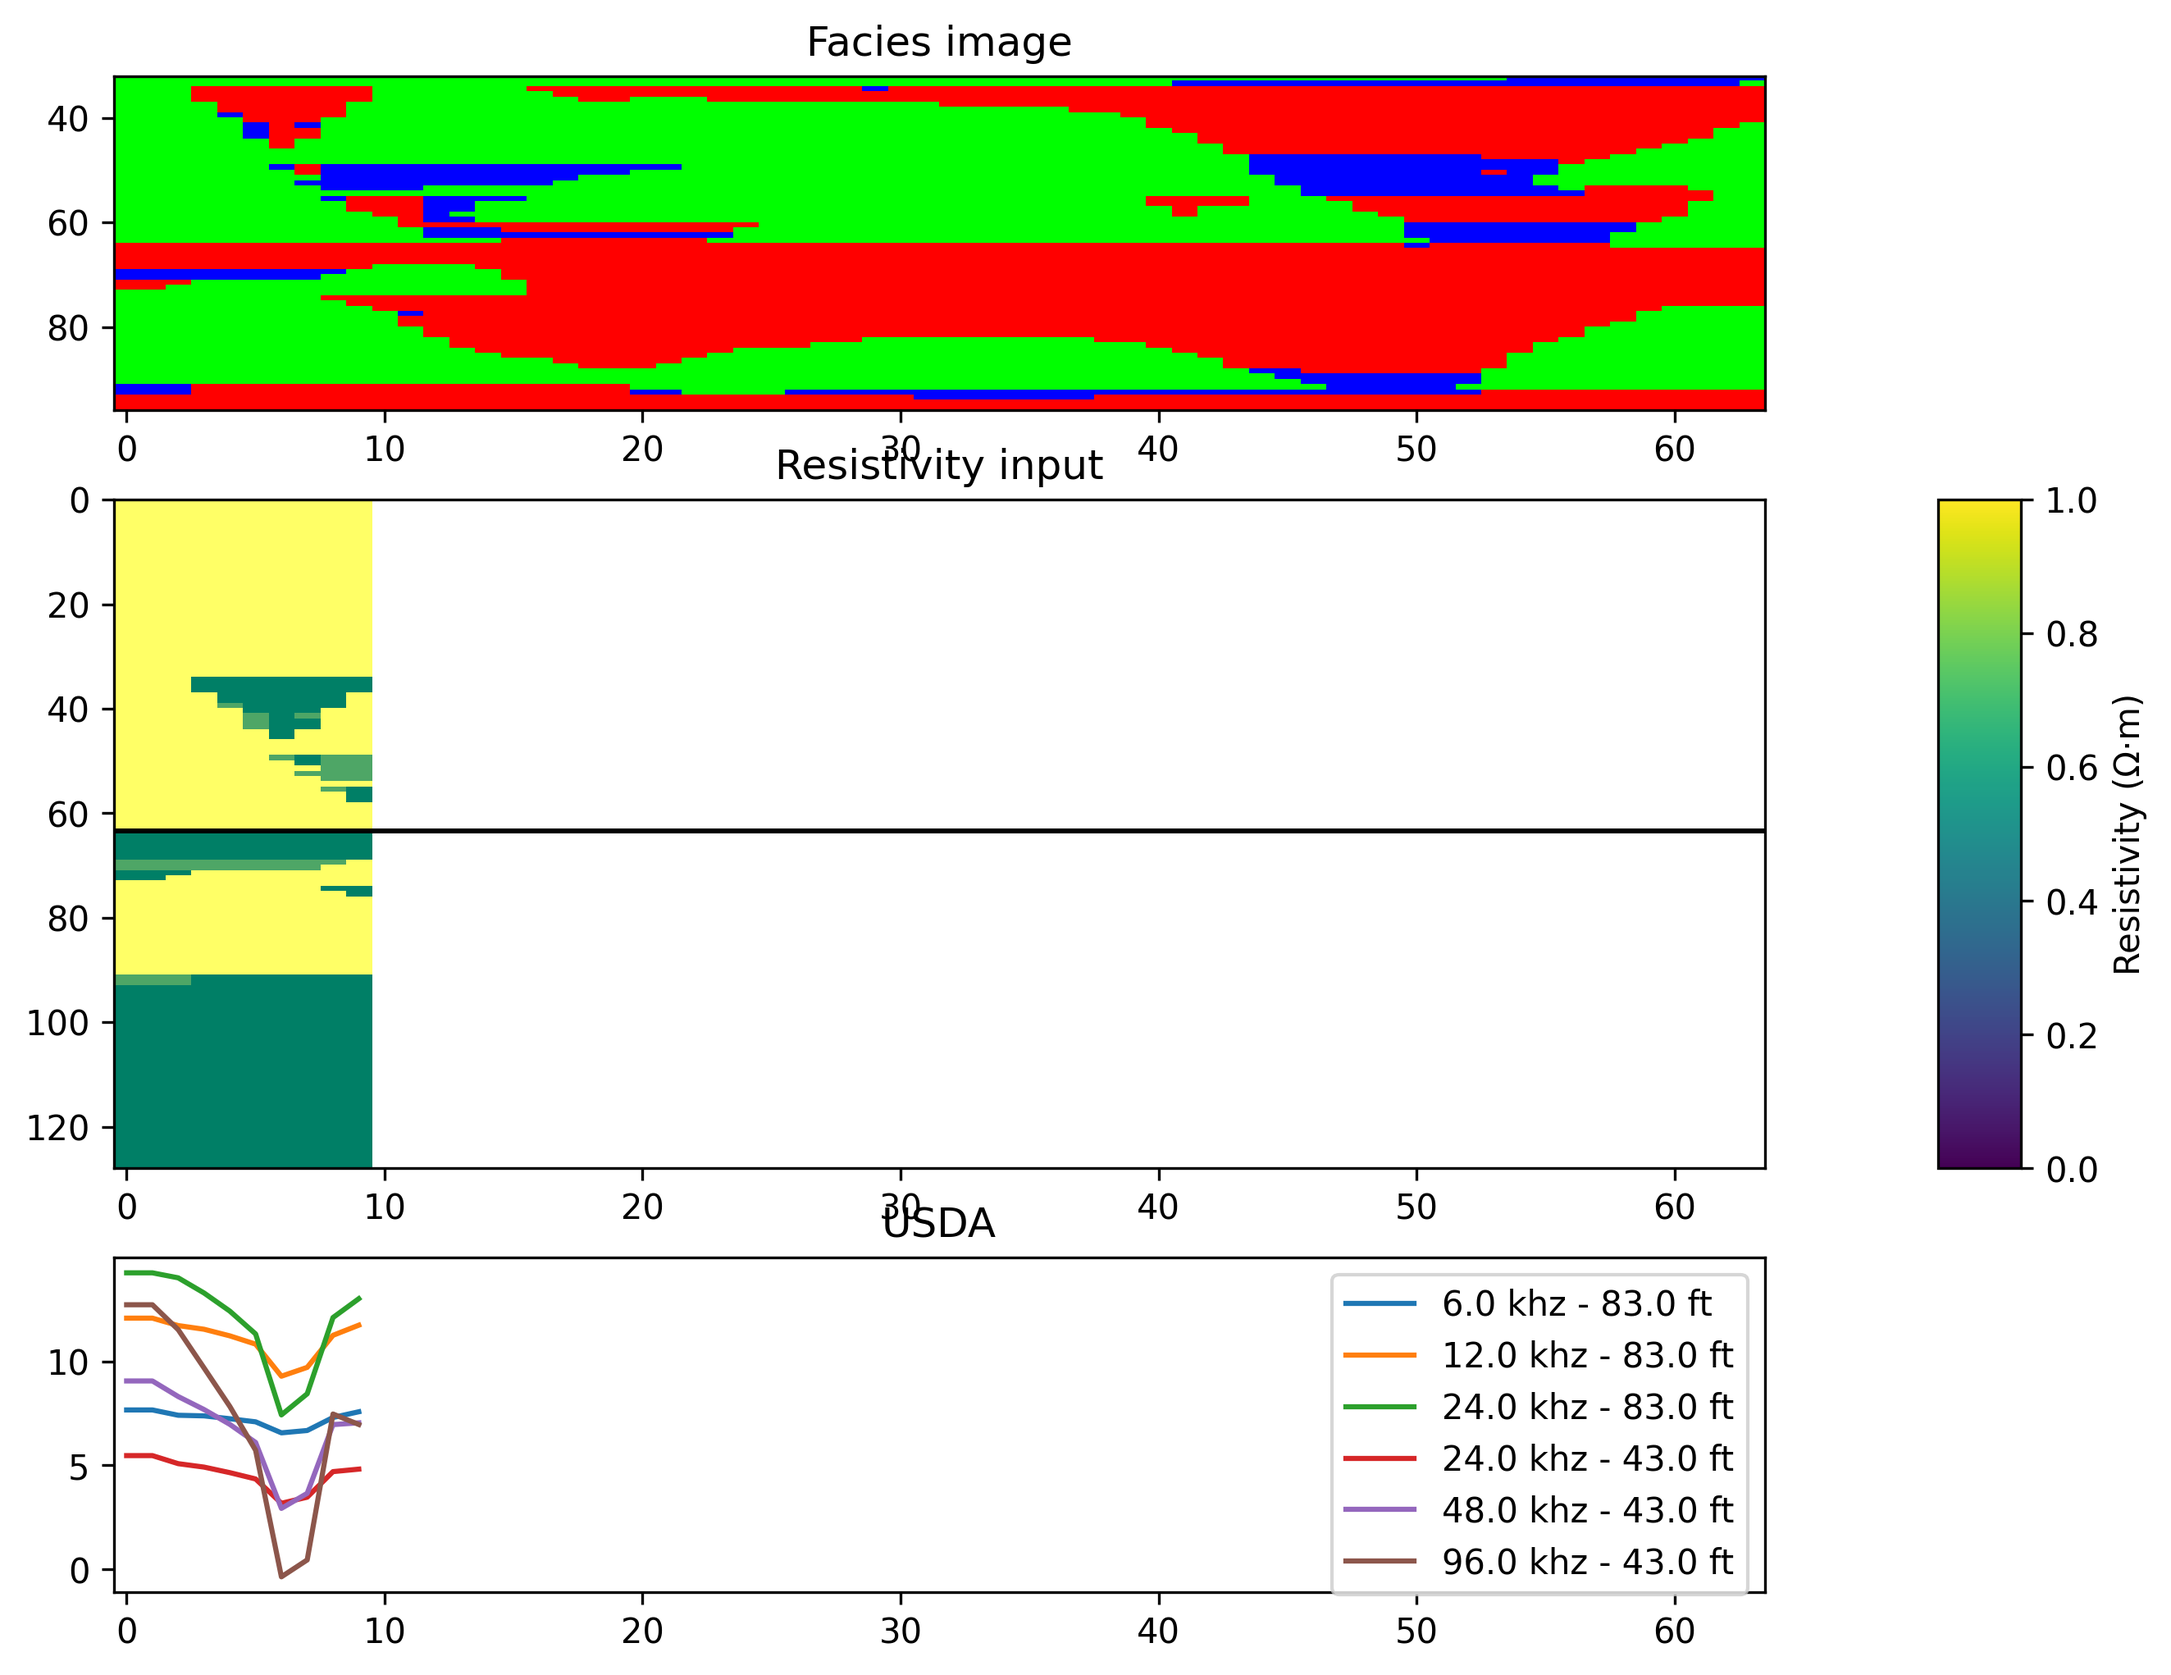
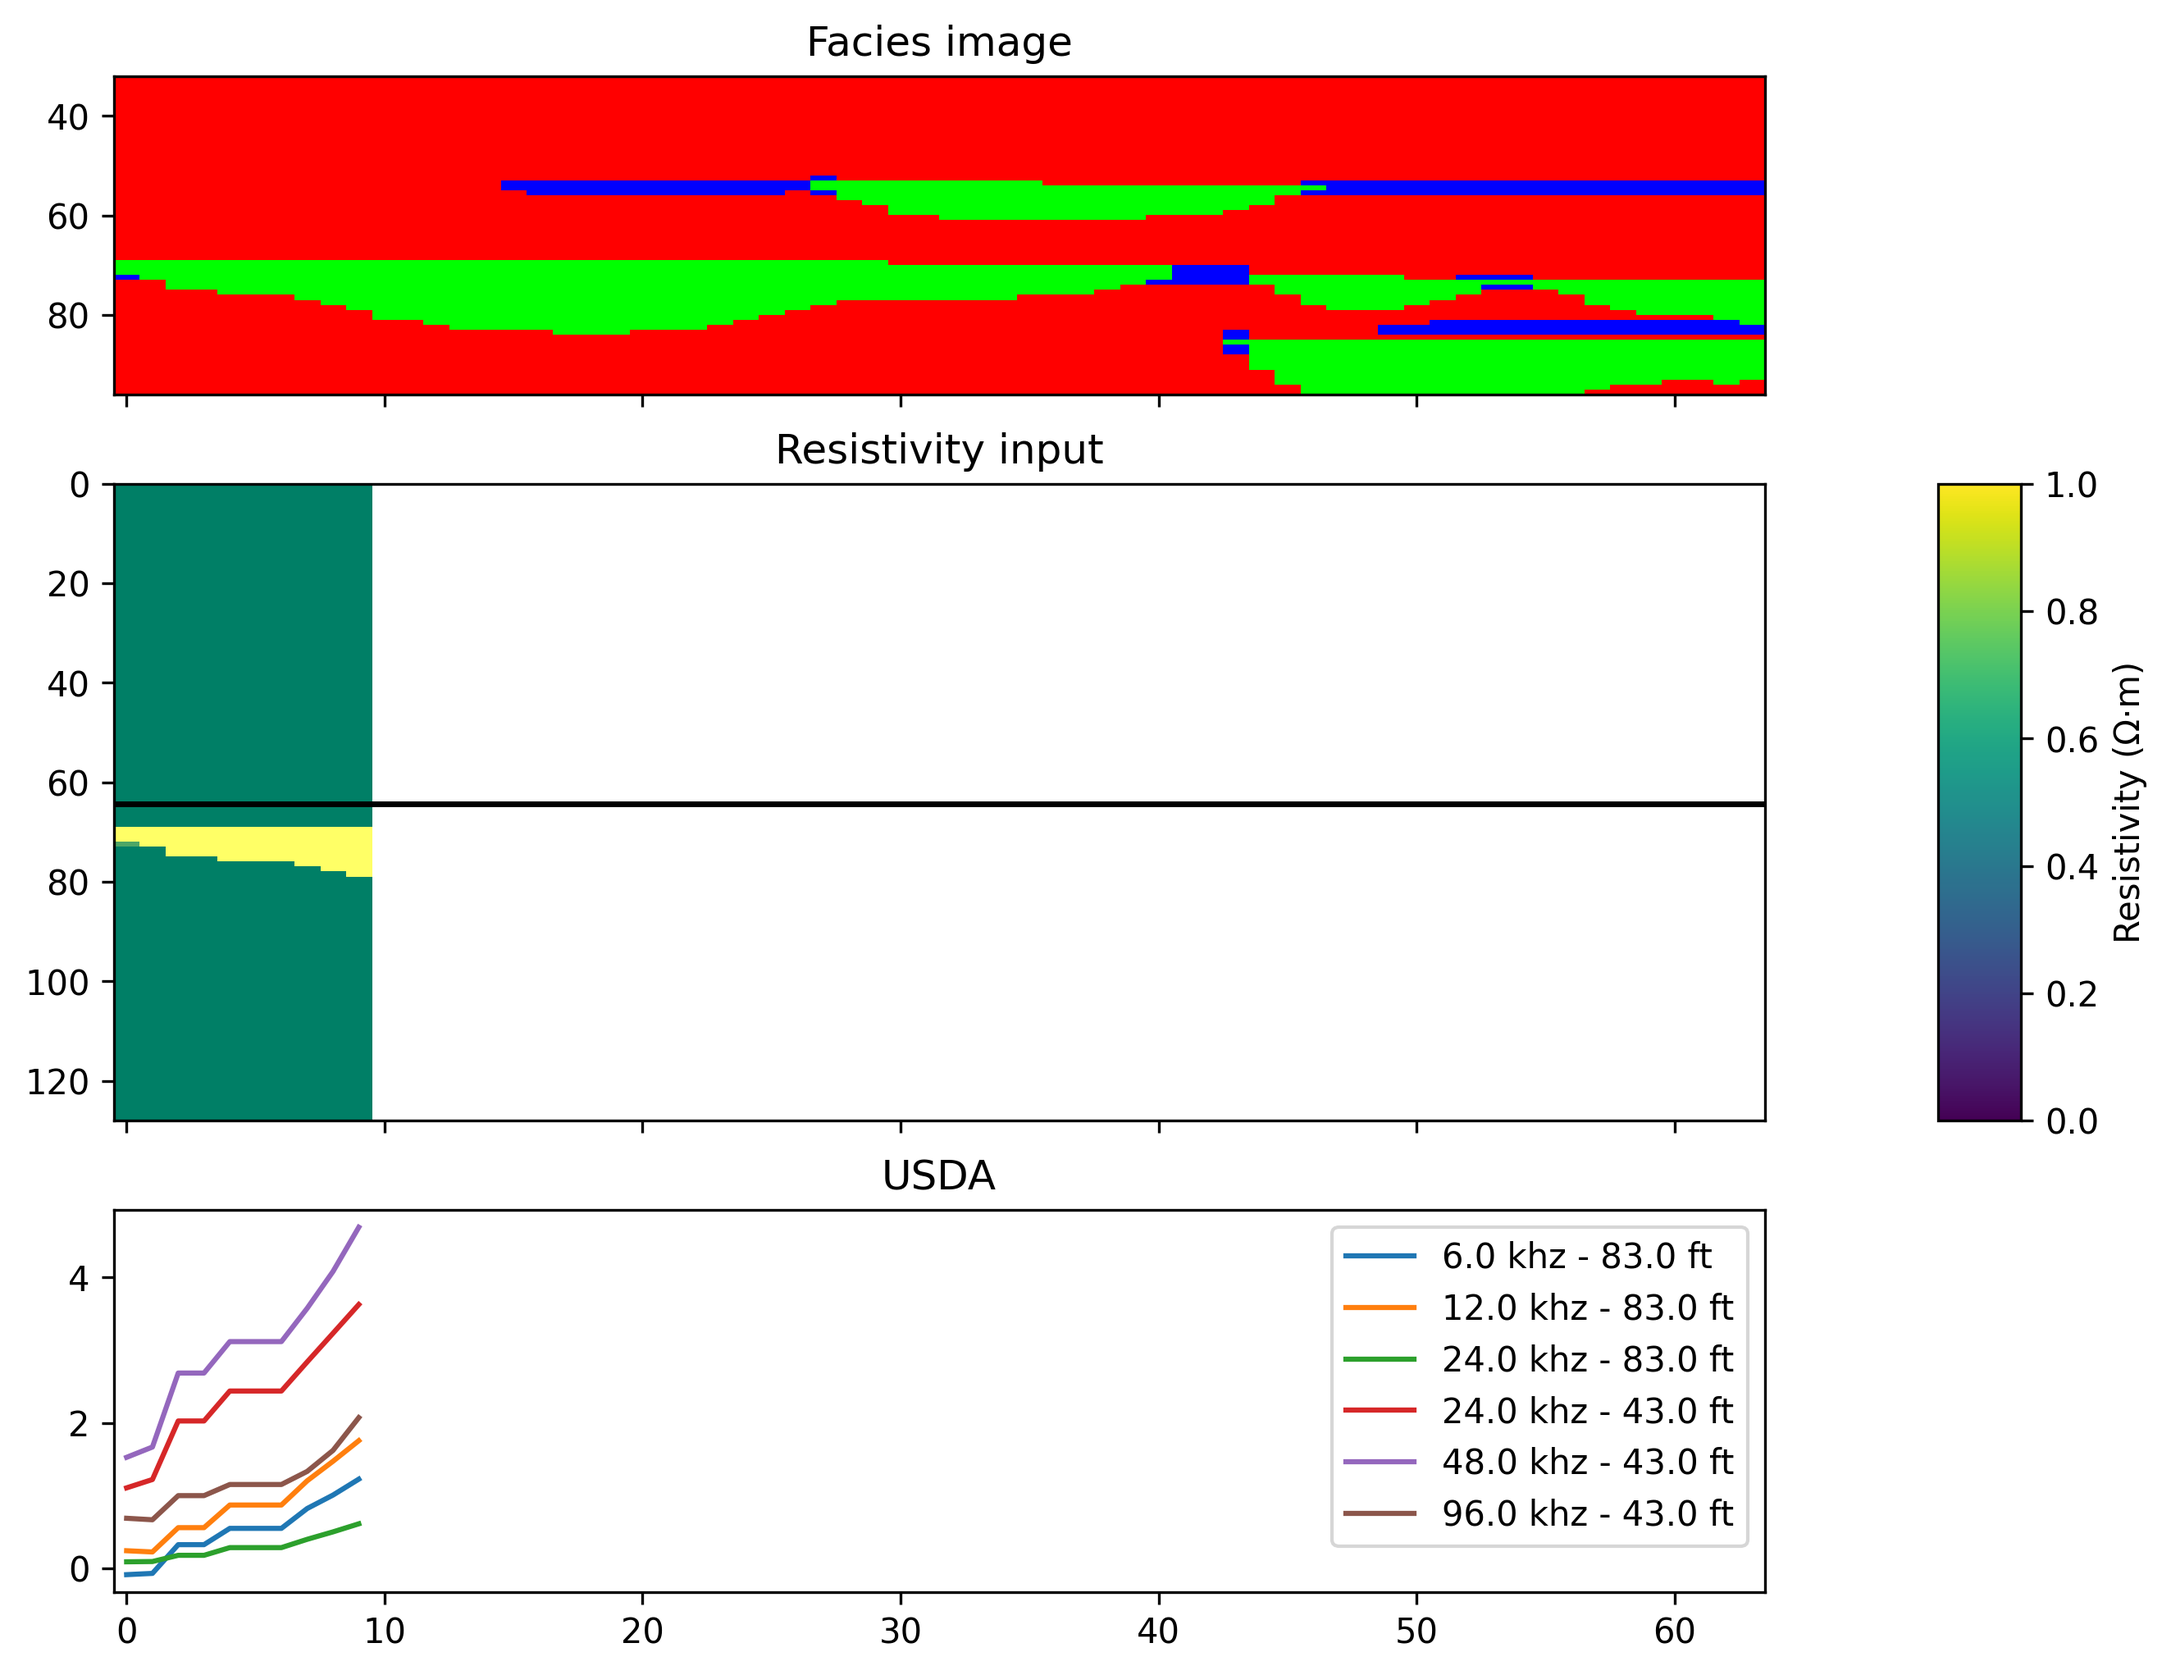
Playing around with seeds - detected inconsistency

diff --git a/data/write_data.py b/data/write_data.py
@@ -37,10 +37,15 @@ datatype = 'UDAR'
 
 sim.setup_fwd_run(**{'test':'foo'})
 
-set_global_seed(123)  # fix seeds for reproducibility
-# set_global_seed(0)
+set_global_seed(42)  # fix seeds for reproducibility
+set_global_seed(43)  # fix seeds for reproducibility
+set_global_seed(55)  # fix seeds for reproducibility
+
+set_global_seed(55)  # fix seeds for reproducibility
+# TODO this is another seed than in the app
 
 my_latent_vec_np = np.random.normal(size=60)
+# my_latent_vec_np = np.random.uniform(low=0.1, high=0.2, size=60)
 my_latent_tensor = torch.tensor(my_latent_vec_np, dtype=torch.float32).unsqueeze(0).to(
     device)  # Add batch dimension and move to device
 index_vector = torch.full((1, 10), fill_value=32, dtype=torch.long).to(device)
@@ -104,7 +109,7 @@ fig = plt.figure(figsize=(10, 8))
 
 # Create a grid with 3 rows and 2 columns
 # The second column is narrow for the colorbar
-gs = GridSpec(3, 2, width_ratios=[20, 1], height_ratios=[1, 2, 1], figure=fig)
+gs = GridSpec(3, 2, width_ratios=[20, 1], height_ratios=[1, 2, 1.2], figure=fig)
 
 # Left column: main plots
 ax_img = fig.add_subplot(gs[0, 0])
@@ -121,7 +126,8 @@ pad_top = sim.NNmodel.pad_top
 num_cols = image.shape[3]
 # note, that the image is rotated weirdly in the current training
 img = image[0, 0:3, :, :].permute(1, 2, 0).cpu().numpy()  # shape: [64, 64, 3]
-ax_img.imshow(img, extent=(-0.5, num_cols - 0.5, pad_top, pad_top + image.shape[2]),
+ax_img.imshow(img,
+              extent=(-0.5, num_cols - 0.5, pad_top + image.shape[2], pad_top),
               aspect='auto', interpolation='none')
 ax_img.set_title("Facies image")
 ax_img.set_ylim(pad_top + image.shape[2], pad_top)
@@ -129,7 +135,7 @@ ax_img.set_ylim(pad_top + image.shape[2], pad_top)
 num_cols_res = resistivity.shape[0]
 # plotting resistivity
 img_res = resistivity[:, 0, :].T.cpu().numpy()  # shape: [H, W]
-ax_res.imshow(img_res, extent=(-0.5, num_cols_res - 0.5, 0, resistivity.shape[2]),
+ax_res.imshow(img_res, extent=(-0.5, num_cols_res - 0.5, resistivity.shape[2], 0),
               aspect='auto', interpolation='none', cmap='summer')
 ax_res.set_title("Resistivity input")
 
@@ -139,10 +145,10 @@ rgba = np.zeros((mask.shape[0], mask.shape[1], 4), dtype=np.float32)
 rgba[..., 0:3] = 0.0  # black color
 rgba[..., 3] = (mask != 0).astype(np.float32)  # alpha: 1 for non-zero, 0 for zero
 
-im_res = ax_res.imshow(rgba, extent=(-0.5, num_cols - 0.5, 0, resistivity.shape[2]),
+im_res = ax_res.imshow(rgba, extent=(-0.5, num_cols - 0.5, resistivity.shape[2], 0),
               aspect='auto', interpolation='none')
 ax_res.set_ylim(resistivity.shape[2], 0)
-ax_res.tick_params(labelbottom=True)
+# ax_res.tick_params(labelbottom=True)
 
 # add colorbar
 cbar = fig.colorbar(im_res, cax=ax_res_cbar)
@@ -160,6 +166,10 @@ for j, config in enumerate(tool_configs):
     ax_logs.plot(logs_np[:, j, log_tool_index_in_use], label=config)
 
 ax_logs.legend()
+
+# remove visible labels on axes
+ax_img.tick_params(labelbottom=False)
+ax_res.tick_params(labelbottom=False)
 
 # saving
 fig.savefig(f'SynthTruth_updated.png', bbox_inches='tight', dpi=300)

diff --git a/wf_demo/write_data_var.py b/wf_demo/write_data_var.py
@@ -7,6 +7,8 @@ import torch
 import pandas as pd
 import pickle
 
+from NeuralSim.image_to_log import set_global_seed
+
 weights_folder = "https://gitlab.norceresearch.no/saly/image_to_log_weights/-/raw/master/em/{}.pth?ref_type=heads"
 scalers_folder = weights_folder
 full_em_model_file_name = "https://gitlab.norceresearch.no/saly/image_to_log_weights/-/raw/master/em/checkpoint_770.pth?ref_type=heads"
@@ -33,8 +35,12 @@ sim.all_data_types = [('6kHz','83ft'),('12kHz','83ft'),('24kHz','83ft'),('24kHz'
 
 rng_state = np.random.get_state()
 
-reference_model_seed = 777
-np.random.seed(reference_model_seed)
+# reference_model_seed = 777
+# np.random.seed(reference_model_seed)
+# TODO this is another seed logic than in write data
+# TODO do we need write_data at all?
+set_global_seed(55)
+
 reference_model = np.random.normal(size=sim.vec_size)
 latent_reference_model = torch.tensor(reference_model, dtype=torch.float32).unsqueeze(0).to(device)  # Add batch dimension and move to device
 
